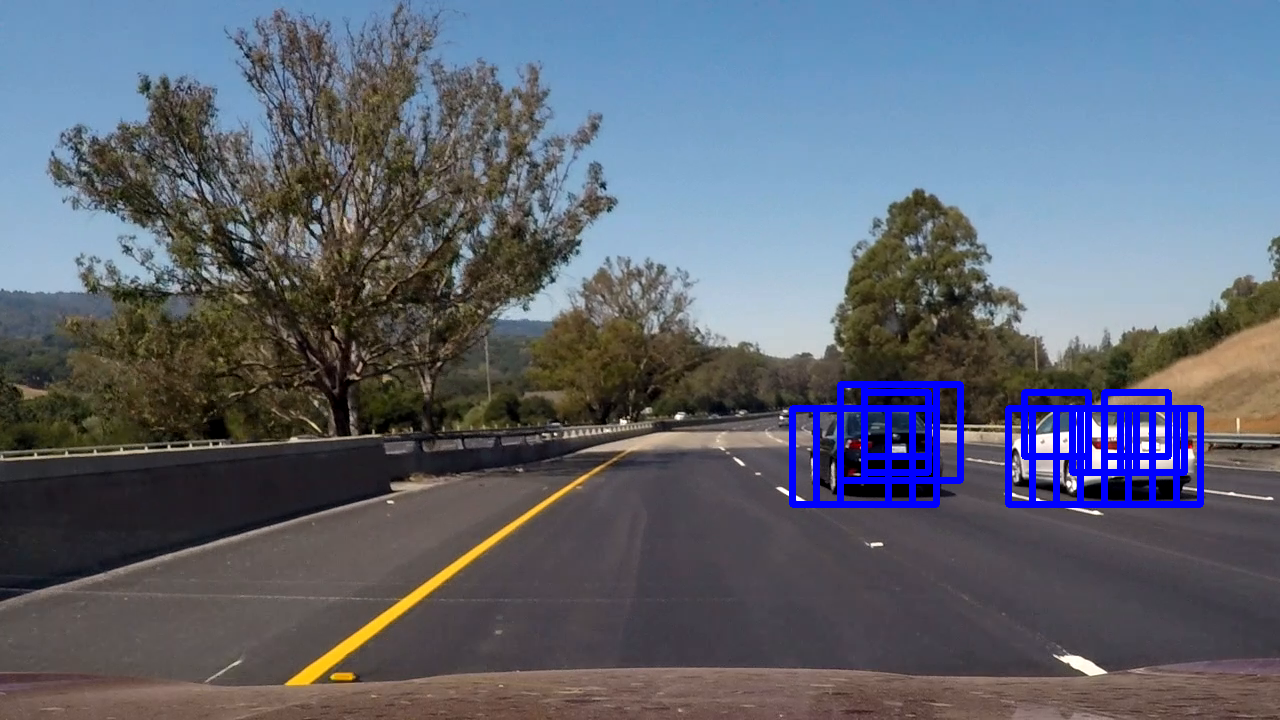
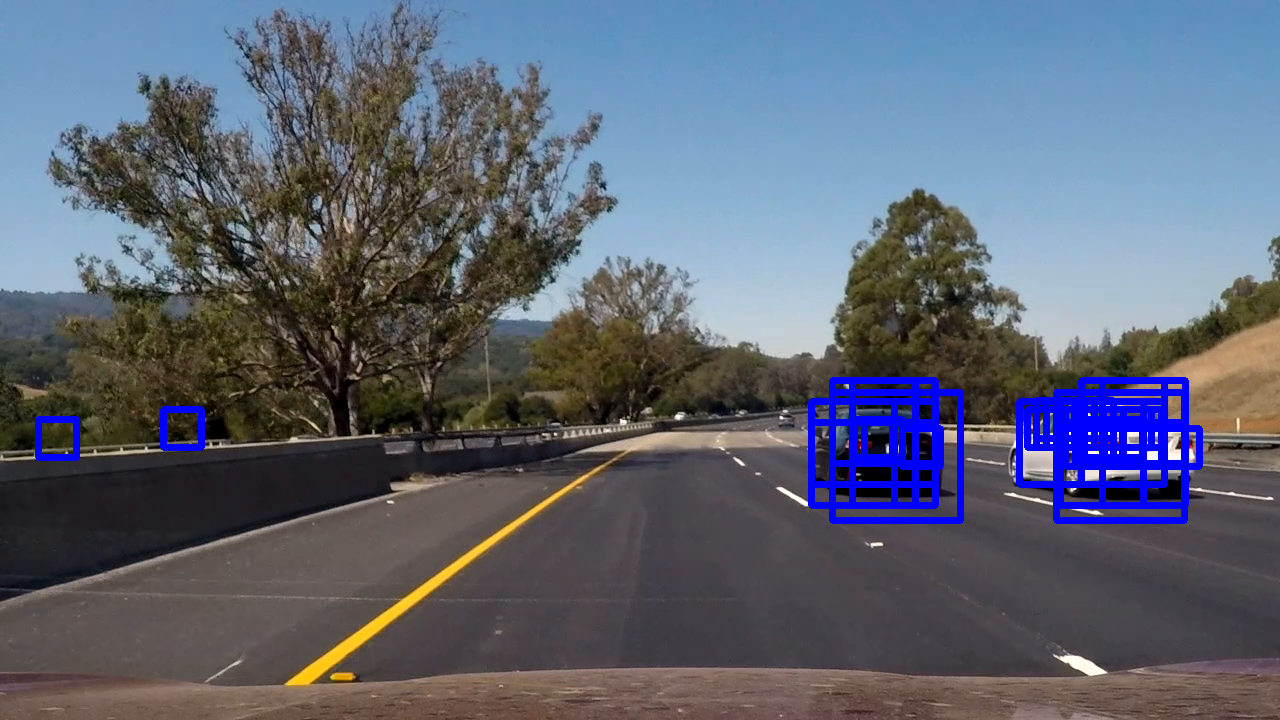
New search parameters and more comments and discussions.

diff --git a/sdcnd/CarND-Vehicle-Detection/vehicle_detector.py b/sdcnd/CarND-Vehicle-Detection/vehicle_detector.py
@@ -158,9 +158,9 @@ def draw_labeled_bboxes(img, labels, color):
 #scales = [3.5, 2.5, 1.5, 0.9]
 xstart = 0
 xstop = 1280
-ystarts = [500, 360, 360]
-ystops = [700, 600, 500]
-scales = [2, 1.5, 1]
+ystarts = [360, 360, 400]
+ystops = [720, 600, 480]
+scales = [2, 1.3, 0.6]
 
 heat_threshold = 8
 frame_count = 10
@@ -203,6 +203,8 @@ def process_image(image):
     draw_img = np.copy(image)
     #for box in bboxes:
     #    draw_img = cv2.rectangle(draw_img, box[0], box[1], (255,0,255), 4)
+    for r in box_list:
+        cv2.rectangle(draw_img, r[0], r[1], (0, 0, 255), 5)
     draw_img = draw_labeled_bboxes(draw_img, labels, (0,255,200))
 
     if len(all_boxes) > frame_count:
@@ -286,11 +288,20 @@ PROCESS_TEST_MOVIE2 = False
 if PROCESS_TEST_MOVIE2:
     process_movie('test_video2.mp4')
 
-PROCESS_PROJECT_MOVIE = False
+PROCESS_TEST_MOVIE3 = False
+if PROCESS_TEST_MOVIE3:
+    process_movie('test_video3.mp4')
+
+
+PROCESS_TEST_MOVIE4 = False
+if PROCESS_TEST_MOVIE4:
+    process_movie('test_video4.mp4')
+
+PROCESS_PROJECT_MOVIE = True
 if PROCESS_PROJECT_MOVIE:
     process_movie('project_video.mp4')    
 
-PROCESS_SAVE_FRAMES = True
+PROCESS_SAVE_FRAMES = False
 if PROCESS_SAVE_FRAMES:
     save_frames = True
     process_movie('test_video.mp4')

diff --git a/sdcnd/CarND-Vehicle-Detection/README.md b/sdcnd/CarND-Vehicle-Detection/README.md
@@ -134,9 +134,9 @@ The parameterizations of the different window scales are between lines 159 and 1
 
     xstart = 0
     xstop = 1280
-    ystarts = [500, 360, 360]
-    ystops = [700, 600, 500]
-    scales = [2, 1.5, 1]
+    ystarts = [360, 360, 400]
+    ystops = [720, 600, 480]
+    scales = [2, 1.3, 0.6]
 
 I also applied the heat map to detection boxes over multiple frames.  Below, I set the frame count to use for heatmap to 10 and the heat_threshold to 8 (lines 165-166), so that only areas with slightly less than one detection per frame will be counted to minimize false positives.  This higher bar could also result in the occasional detection dropout but recovery from this is very quick.
 
@@ -172,11 +172,8 @@ I basically followed the lessons on vehicle detection, used the provided data, a
 
 I really liked the approach in this project of collecting various color and image features from known labeled data, combining them into a single normalized feature vector, and then train a binary classifer to detect the vehicles on differences in this feature vector.  It's good to know the approach of combining classical computer vision and machine learning for image classification after my having used deep learning for much of this kind of work.
 
-This is a great **first pass** at the problem of vehicle detection, but it seems we're just scratching the surface.  To reliably detect vehicles across various terrains, road types and conditions, lighting and weather conditions, etc., massive amount of training will be needed.  Also, it really unclear how well a particular feature combination will work across all driving conditions, even with lots of data. Performance is also an issue with our python implementation for learning purposes.  Since we're combining results from multiple frames for more reliable detetion, and real driving will need multiple results per second for proper control, I imagine this whole pipeline will need to run at 30 iterations per second or more in the real world.
+This is a great **first pass** at the problem of vehicle detection, but it seems we're just scratching the surface. I have to try quite a few sets of ystart/ystop/scaling parameters to get full detection of two cars throughout the short project video.  This seems to be an indication of brittleness.
+
+To reliably detect vehicles across various terrains, road types, road conditions, slopes and elevations, lighting and weather conditions, etc., massive amount of training data will be needed, as well as some level of automatic adaptability.  Also, it really unclear how well a particular feature combination will work across all driving conditions, even with lots of data. Performance is also an issue with our python implementation for learning purposes.  Since we're combining results from multiple frames for more reliable detetion, and real driving will need multiple results per second for proper control, I imagine this whole pipeline will need to run at 30 iterations per second or more in the real world.
 
 It would be cool to combine vehicle detection and lane detection from this course with pedestrian and road sign detection.  The combined system needs to run at multiple full updates per second so will provide an interesting optimization and computation challenge.
-
-
-
-
-
